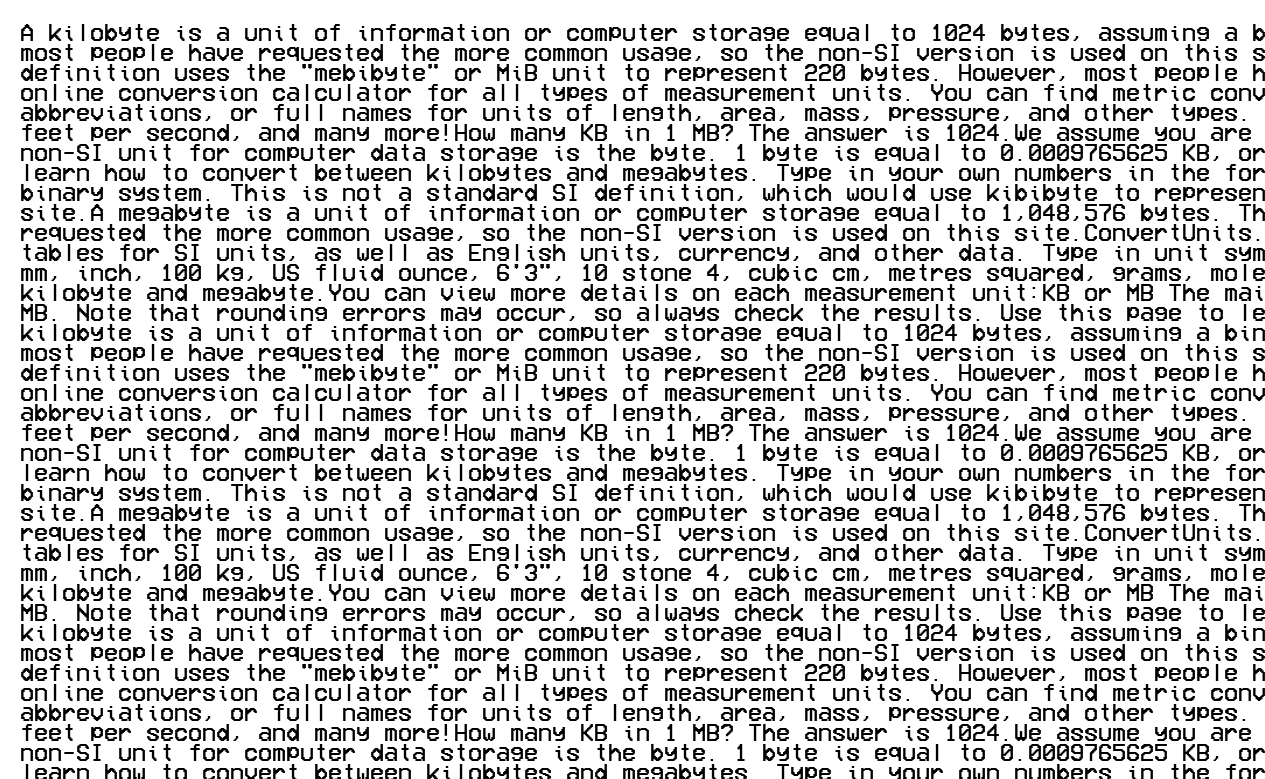
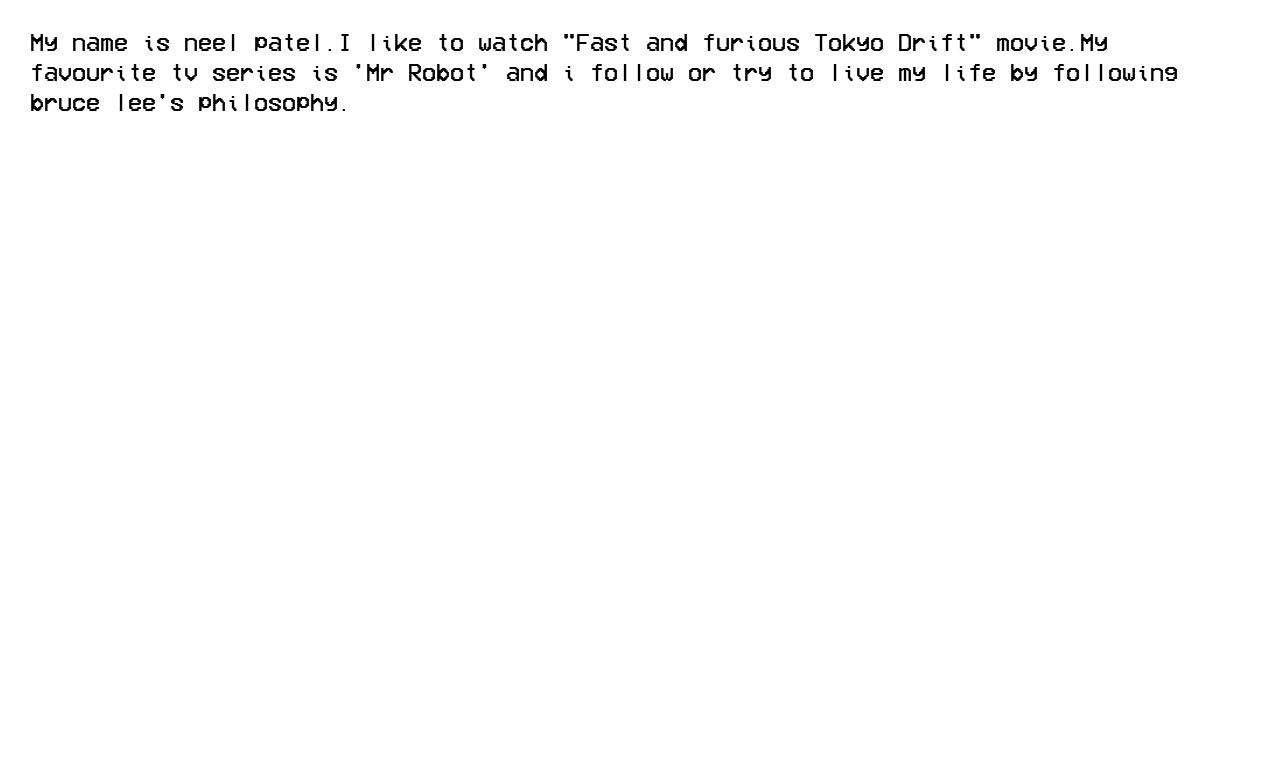
adjusted the line spacing and width in final decrypted  message output image

Changed region(s): [[0.0, 0.0308, 1.0, 1.0]]

diff --git a/SteganoUI.py b/SteganoUI.py
@@ -173,10 +173,10 @@ class Stego:
         image_text = Image.new('RGB',(self.original_image_width,self.original_image_height),color=(255,255,255))
         drawer = ImageDraw.Draw(image_text)
         font = ImageFont.truetype("mono.ttf",24)
-        margin = offset = 20
-        for line in textwrap.wrap(text, width=200):
-            drawer.text((margin,offset), line,font=font, align="center",spacing=15,fill=(0,0,0))
-            offset += 20
+        margin = offset = 30
+        for line in textwrap.wrap(text, width=85):
+            drawer.text((margin,offset), line,font=font, align="center",spacing=10,fill=(0,0,0))
+            offset += 30
         
         image_text.save('images/hidden.png')
         return image_text
